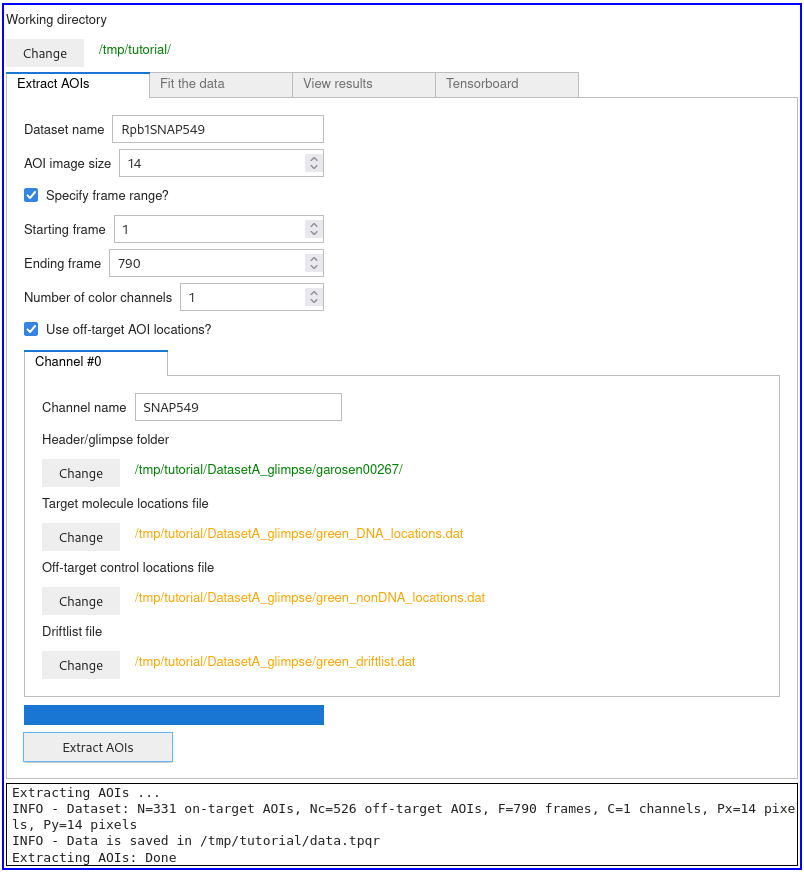
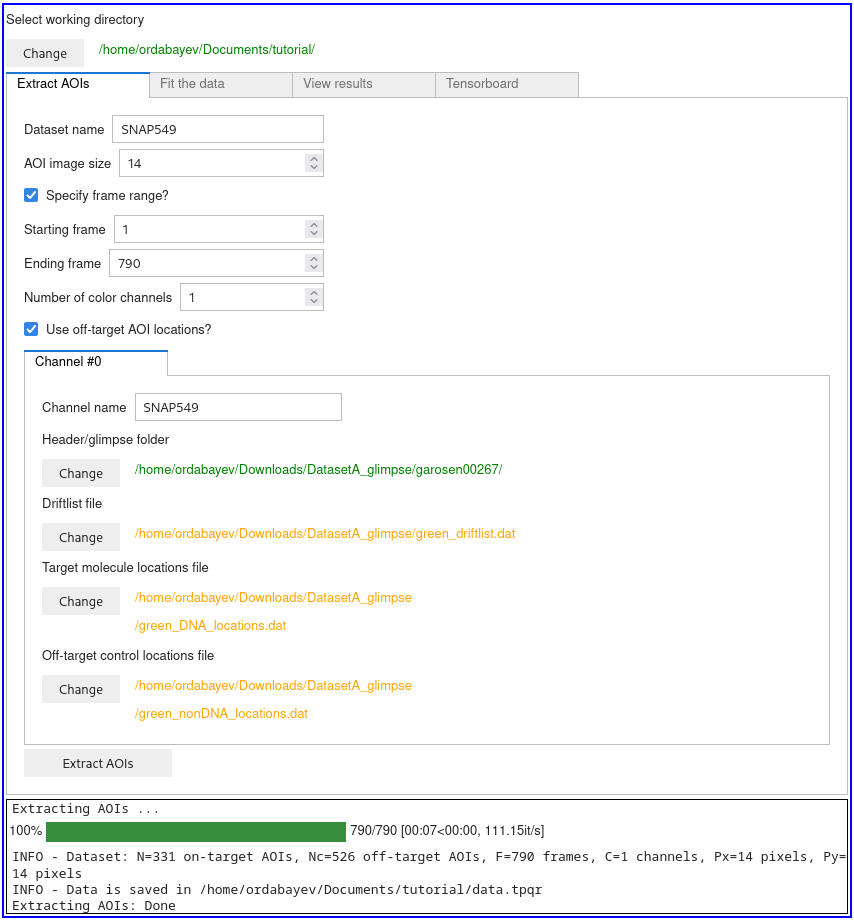
Update arch tutorial (#296)
* update docs

* update figures

Changed region(s): [[0.0, 0.0, 1.0, 1.0]]

diff --git a/tapqir/gui.py b/tapqir/gui.py
@@ -68,12 +68,10 @@ def initUI(DEFAULTS):
 
     IN_COLAB = "google.colab" in sys.modules
 
-    layout = widgets.VBox(layout={"width": "800px", "border": "2px solid blue"})
+    layout = widgets.VBox(layout={"width": "850px", "border": "2px solid blue"})
 
     # widgets
-    cd = FileChooser(
-        ".", title="Select working directory (analysis output will be saved here)"
-    )
+    cd = FileChooser(".", title="Select working directory")
     cd.show_only_dirs = True
 
     out = widgets.Output(layout={"border": "1px solid black"})
@@ -185,6 +183,8 @@ def cdCmd(path, DEFAULTS, tab, out, layout, tensorboard=None):
     with out:
         typer.echo("Loading configuration data: Done")
 
+    out.clear_output(wait=True)
+
 
 def glimpseUI(out):
     """
@@ -294,6 +294,8 @@ def glimpseCmd(b, layout, out):
             progress_bar=tqdm_notebook,
             labels=False,
         )
+
+    out.clear_output(wait=True)
 
 
 def channelUI(C, channelTabs, useOfftarget):
@@ -411,6 +413,8 @@ def fitCmd(b, layout, out):
             no_input=True,
             progress_bar=tqdm_notebook,
         )
+
+    out.clear_output(wait=True)
 
 
 def showUI(out):
@@ -599,6 +603,8 @@ def showCmd(b, layout, view, out):
     )
     with out:
         typer.echo("Loading results: Done")
+
+    out.clear_output(wait=True)
 
 
 def onKeyPress(event, n, f1, zoom, targets, nonspecific):

diff --git a/docs/source/conf.py b/docs/source/conf.py
@@ -46,12 +46,14 @@ extensions = [
     "sphinx.ext.viewcode",
     "sphinx_autodoc_typehints",
     "sphinx_click",
+    "sphinx_copybutton",
     "sphinx_gallery.load_style",
-    "sphinx_panels",
     "IPython.sphinxext.ipython_console_highlighting",
 ]
 
 autodoc_member_order = "bysource"
+
+copybutton_prompt_text = "$ "
 
 # Add any paths that contain templates here, relative to this directory.
 templates_path = ["_templates"]

diff --git a/setup.py b/setup.py
@@ -36,6 +36,7 @@ DOCS_REQUIRE = [
     "sphinx",
     "sphinx-autodoc-typehints",
     "sphinx-click",
+    "sphinx-copybutton",
     "sphinx-gallery",
     "sphinx-panels",
 ]

diff --git a/docs/source/tutorials/part_ii_linux.rst b/docs/source/tutorials/part_ii_linux.rst
@@ -15,19 +15,25 @@ Set up the environment
 
 To start the analysis create an empty folder (here named ``tutorial``) which will be the working directory::
 
-  $ mkdir /tmp/tutorial
-  $ cd /tmp/tutorial
+  $ mkdir ~/Documents/tutorial
 
 Download input data
 -------------------
 
 These data were acquired with `Glimpse`_ and pre-processed with the `imscroll`_ program (`Friedman et al., 2015`_).
-Let's download data files using `wget`_ and then unzip files::
+Change directory to ``Downloads``::
+
+  $ cd ~/Downloads
+
+Download data files using `wget`_::
 
   $ wget https://zenodo.org/record/5659927/files/DatasetA_glimpse.zip
+
+Unzip and then delete the zip file::
+
   $ unzip DatasetA_glimpse.zip && rm DatasetA_glimpse.zip
 
-The raw input data placed in ``/tmp/tutorial/DatasetA_glimpse`` are:
+The raw input data placed in ``/home/{your_username}/Downloads/DatasetA_glimpse`` are:
 
 * ``garosen00267`` - folder containing image data in glimpse format and header files
 * ``green_DNA_locations.dat`` - aoiinfo file designating target molecule (DNA) locations in the binder channel
@@ -51,7 +57,7 @@ which will open a browser window to display the Tapqir GUI:
 Select working directory
 ------------------------
 
-Click the ``Select`` button at the top to set the working directory  to ``/tmp/tutorial``:
+Click the ``Select`` button at the top to set the working directory  to ``/home/{your_username}/Documents/tutorial``:
 
 .. image:: working-directory.png
    :width: 800
@@ -74,10 +80,10 @@ To extract AOIs specify the following options in the ``Extract AOIs`` tab:
 And specify the locations of input files for each color channel (only one color channel in this example):
 
 * Channel name: ``SNAP549`` (an arbitrary name)
-* Header/glimpse folder: ``/tmp/tutorial/DatasetA_glimpse/garosen00267``
-* Target molecule locations file: ``/tmp/tutorial/DatasetA_glimpse/green_DNA_locations.dat``
-* Off-target control locations file: ``/tmp/tutorial/DatasetA_glimpse/green_nonDNA_locations.dat``
-* Driftlist file: ``/tmp/tutorial/DatasetA_glimpse/green_driftlist.dat``
+* Header/glimpse folder: ``/home/{your_username}/Downloads/DatasetA_glimpse/garosen00267``
+* Driftlist file: ``/home/{your_username}/Downloads/DatasetA_glimpse/green_driftlist.dat``
+* Target molecule locations file: ``/home/{your_username}/Downloads/DatasetA_glimpse/green_DNA_locations.dat``
+* Off-target control locations file: ``/home/{your_username}/Downloads/DatasetA_glimpse/green_nonDNA_locations.dat``
 
 .. note::
 
@@ -93,6 +99,7 @@ Next, click ``Extract AOIs`` button:
 Great! The program has outputted a ``data.tpqr`` file containing extracted AOI images (N=331 target and Nc=526 off-target
 control locations)::
 
+    $ cd ~/Documents/tutorial
     $ ls
 
     DatasetA_glimpse     offset-distribution.png  ontarget-channel0.png
@@ -220,7 +227,7 @@ Parameters of prior distirbutions (Eqs. 6a, 6b, 11, 12, 13, 15, and 16 in `Ordab
 * ``gain_std`` (default 50): standard deviation of the HalfNormal distribution in Eq. 16
 
 .. _Rosen et al., 2020: https://dx.doi.org/10.1073/pnas.2011224117
-.. _Ordabayev et al., 2021: https://doi.org/10.1101/2021.09.30.462536
+.. _Ordabayev et al., 2021: https://doi.org/10.7554/eLife.73860
 .. _Friedman et al., 2015: https://dx.doi.org/10.1016/j.ymeth.2015.05.026
 .. _Glimpse: https://github.com/gelles-brandeis/Glimpse
 .. _imscroll: https://github.com/gelles-brandeis/CoSMoS_Analysis/wiki

diff --git a/docs/source/install/linux.rst b/docs/source/install/linux.rst
@@ -7,10 +7,13 @@ We have tested Tapqir installation on Ubuntu 20.04 and Arch Linux distributions.
 
    *On Ubuntu 20.04*
    
-   Tip: on Ubuntu select the text to copy it and then press the middle mouse button (scrolling wheel) to paste the copied text.
+   .. tip::
+
+      On Ubuntu select the text to copy it and then press the middle mouse button (scrolling wheel) to paste the copied text.
    
    To get information about your graphic card and available drivers run::
 
+    $ sudo apt install ubuntu-drivers-common
     $ ubuntu-drivers devices
     
     // From the output
@@ -52,7 +55,7 @@ We have tested Tapqir installation on Ubuntu 20.04 and Arch Linux distributions.
 
    *On Ubuntu 20.04*
 
-   Summary of `installation instructions <https://docs.nvidia.com/cuda/cuda-installation-guide-linux/index.html#wsl-installation>`_::
+   Summary of `CUDA installation instructions <https://docs.nvidia.com/cuda/cuda-installation-guide-linux/index.html#wsl-installation>`_::
 
     $ sudo apt-key adv --fetch-keys https://developer.download.nvidia.com/compute/cuda/repos/ubuntu2004/x86_64/7fa2af80.pub
     $ sudo add-apt-repository "deb https://developer.download.nvidia.com/compute/cuda/repos/ubuntu2004/x86_64/ /"
@@ -67,7 +70,7 @@ We have tested Tapqir installation on Ubuntu 20.04 and Arch Linux distributions.
 
     $ sudo pacman -S cuda
 
-5. Install Anaconda package manager (`installation instructions <https://docs.anaconda.com/anaconda/install/linux/>`_).
+5. Install Anaconda package manager (`Anaconda installation instructions <https://docs.anaconda.com/anaconda/install/linux/>`_).
    Here is the summary of required installation steps:
 
    * Download installer from `<https://www.anaconda.com/products/individual>`_ (anaconda nucleus sign-up page can be ignored).
